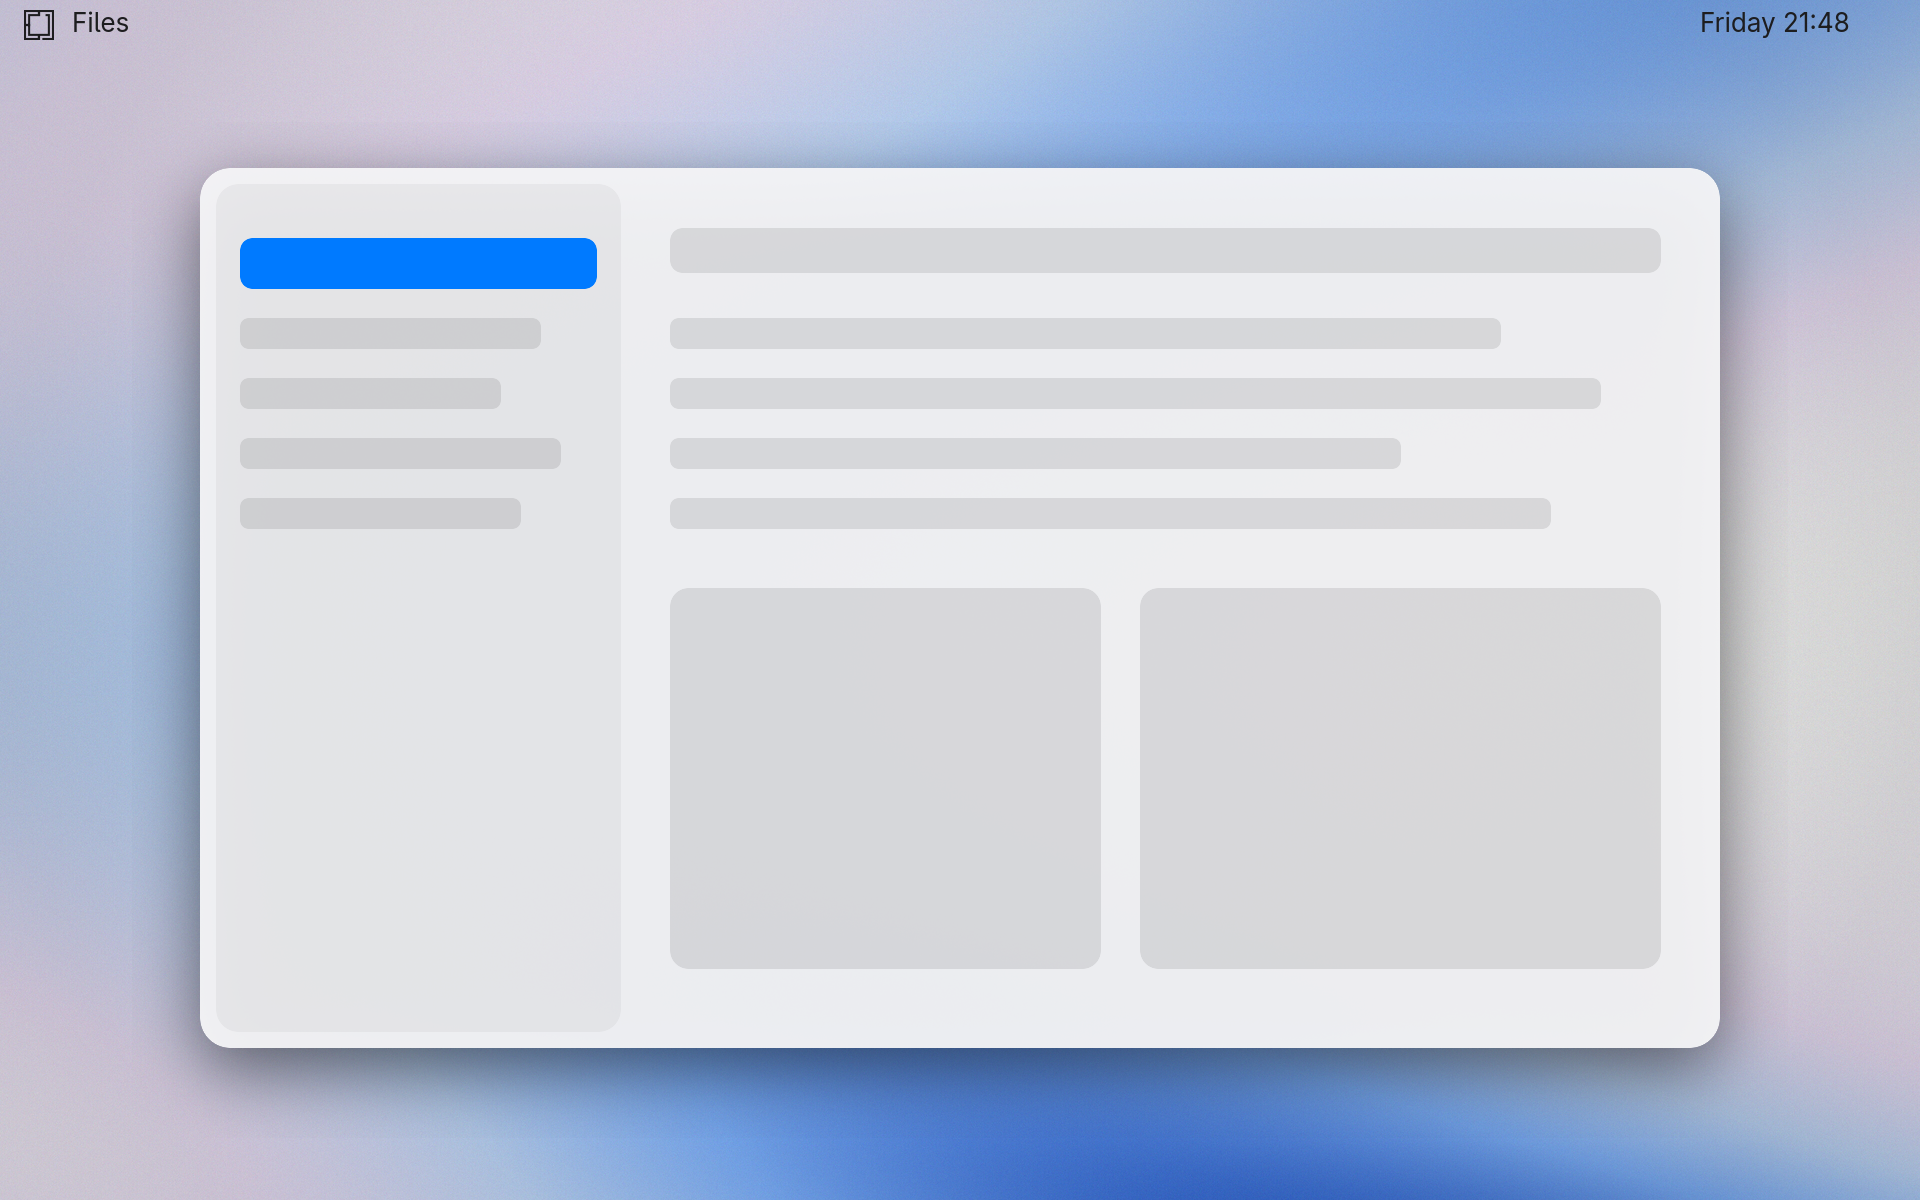
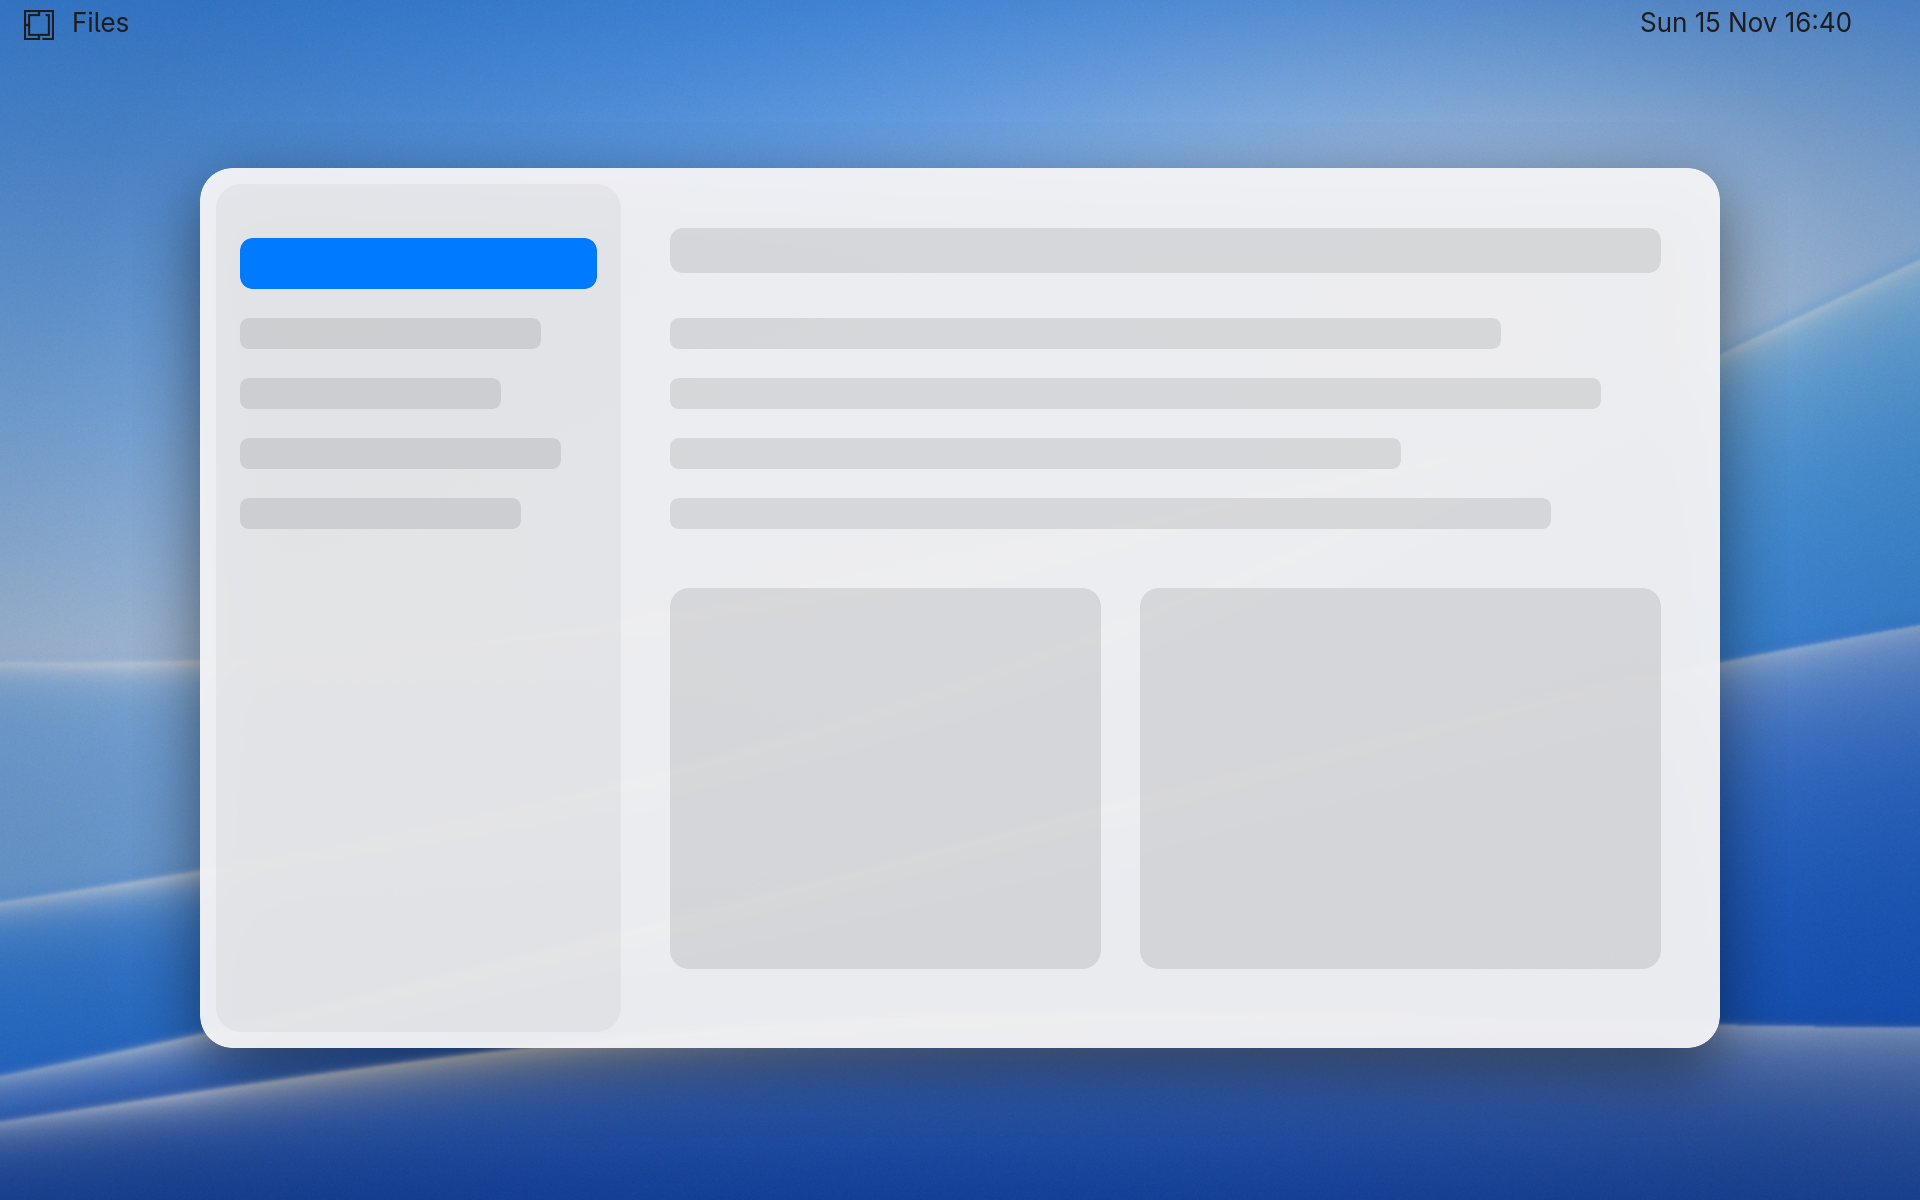
Add Tahoe Day wallpaper
Replace the abstract gradient with an original layered-wave wallpaper and refresh the preview.

diff --git a/README.md b/README.md
@@ -21,7 +21,7 @@ The theme sets the `WhiteSur` icon theme.
 
 ## Wallpaper
 
-An original abstract wallpaper is included. Apple's macOS Tahoe wallpapers are not, because they are Apple's copyrighted work. Download the official *macOS Tahoe 26* light wallpaper yourself and put it in `~/.config/omarchy/backgrounds/macos-tahoe-light/`.
+An original wallpaper, "Tahoe Day", is included: layered glassy waves generated for this theme. Apple's macOS Tahoe wallpapers are not, because they are Apple's copyrighted work. Download the official *macOS Tahoe 26* light wallpaper yourself and put it in `~/.config/omarchy/backgrounds/macos-tahoe-light/`.
 
 ## The macOS window look
 
